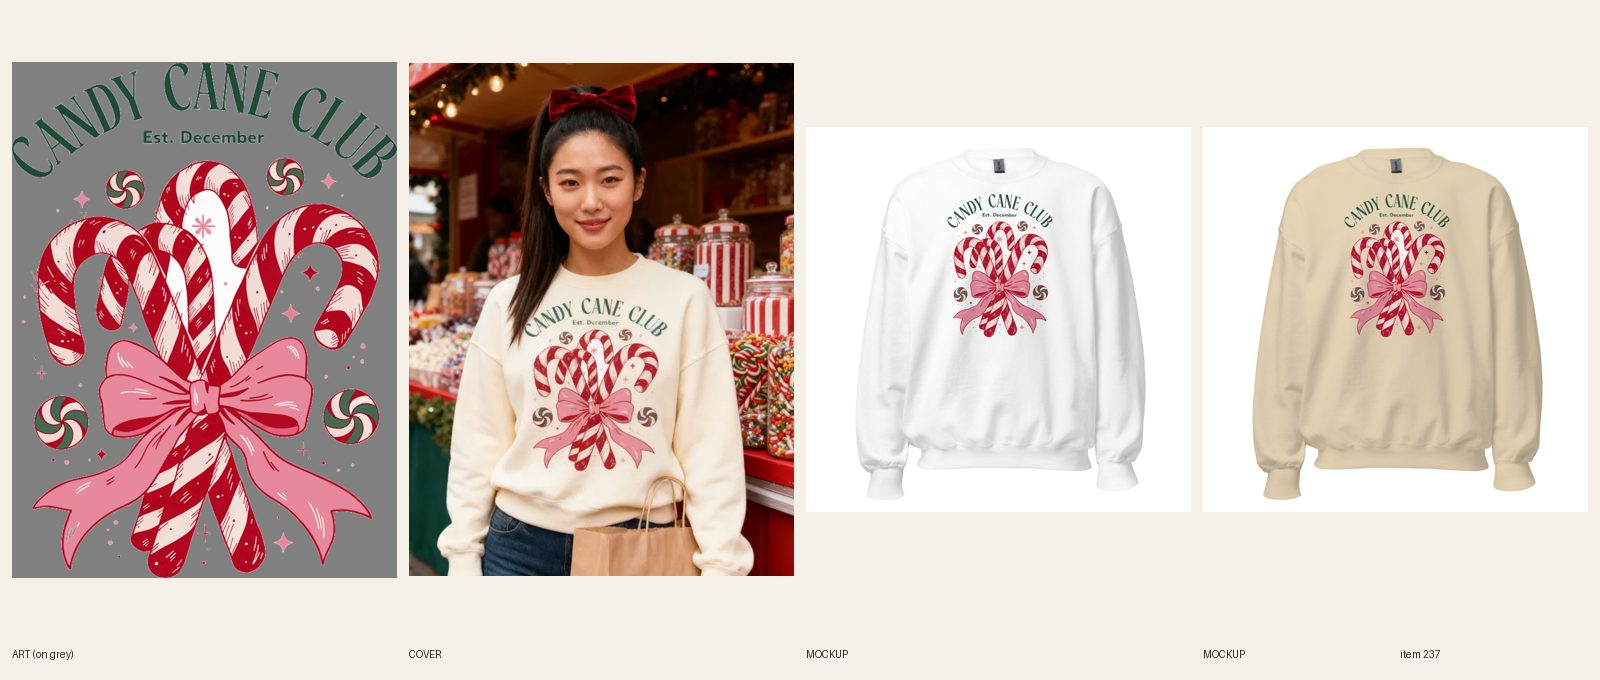
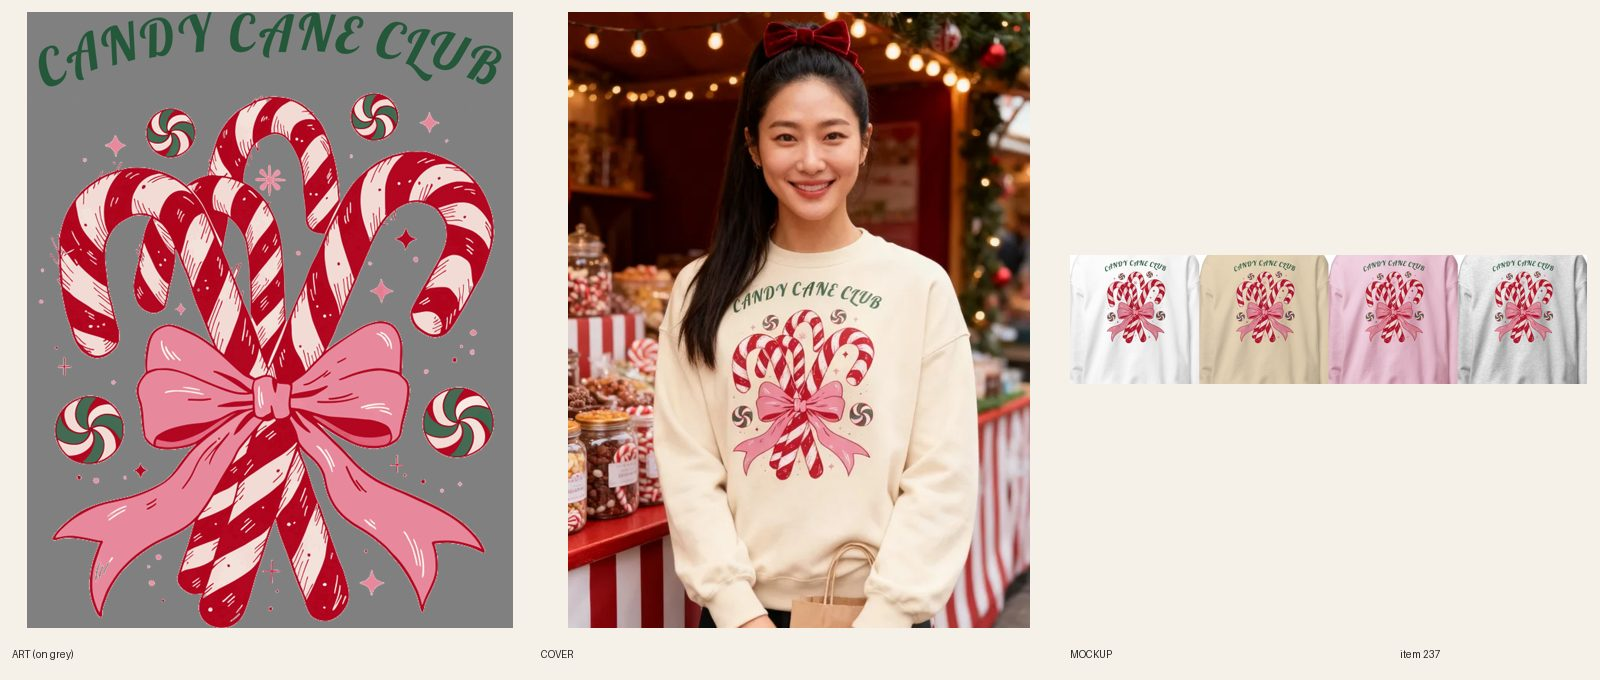
[A] 237 candy cane club crewneck redo built (resync running)

diff --git a/src/data/covers.ts b/src/data/covers.ts
@@ -229,7 +229,7 @@ export const covers: Record<string, { src: string; alt: string }> = {
   'unisex-horror-night-shift-oversized-hoodie': { src: '/covers/unisex-horror-night-shift-oversized-hoodie.webp', alt: 'Man and woman in matching black Night Shift oversized hoodies outside a neon-lit small-town movie theater at night' },
     'womens-christmas-christmas-nurse-crewneck-sweatshirt': { src: '/covers/womens-christmas-christmas-nurse-crewneck-sweatshirt.webp', alt: 'Woman in her early 30s with braids in a high bun and gold studs in a light blue Nice List Nurse Christmas crewneck sweatshirt in a hospital break room with paper snowflakes and a small tree' },
   'womens-christmas-merry-woofmas-crewneck-sweatshirt': { src: '/covers/womens-christmas-merry-woofmas-crewneck-sweatshirt.webp', alt: 'Woman in her late 30s with shoulder-length dark hair and a side part in a cream Merry Woofmas crewneck sweatshirt beside a lit Christmas tree with a golden doodle at her feet' },
-  'womens-christmas-candy-cane-club-crewneck-sweatshirt': { src: '/covers/womens-christmas-candy-cane-club-crewneck-sweatshirt.webp', alt: 'Woman in her early 30s with a long high ponytail and a red velvet bow in a cream Candy Cane Club crewneck sweatshirt at a Christmas market candy stall, shopping bag at her hip' },
+    'womens-christmas-candy-cane-club-crewneck-sweatshirt': { src: '/covers/womens-christmas-candy-cane-club-crewneck-sweatshirt.webp', alt: 'Woman in her early 30s with a long high ponytail and a red velvet bow in a cream Candy Cane Club Christmas crewneck sweatshirt at a Christmas market candy stall' },
   'womens-cropped-ghost-club-cropped-hoodie': { src: '/covers/womens-cropped-ghost-club-cropped-hoodie.webp', alt: 'Woman in a black Ghost Club cropped hoodie in a campus coffee shop with fall leaves outside the window' },
   'womens-christmas-oh-deer-hoodie': { src: '/covers/womens-christmas-oh-deer-hoodie.webp', alt: 'Woman in her mid 40s with a chin-length auburn bob and freckles in a sand Oh Deer reindeer hoodie with the hood visible on a snowy Christmas tree farm at golden hour' },
   'mens-gym-beach-body-pending-hoodie': { src: '/covers/mens-gym-beach-body-pending-hoodie.webp', alt: 'Man in a navy Beach Body Pending hoodie at a winter outdoor muscle-beach gym with palm trees and an empty bench' },

diff --git a/docs/pipeline/237-christmas-candy-cane-club-crewneck.md b/docs/pipeline/237-christmas-candy-cane-club-crewneck.md
@@ -1,4 +1,4 @@
-status: REDO
+status: BUILDING [A] 2026-10-17 21:20 UTC
 lane: A
 type: twin
 id: 237
@@ -24,3 +24,4 @@ handle: womens-christmas-candy-cane-club-crewneck-sweatshirt
   1. R6.2 / R3.7.6: "Est. December" is a typeset bold book serif (dates count) and too small to read on the cover. Erase it in print-prep; the art reads without it.
   2. R3.7.6: CANDY CANE CLUB reads as a clean display serif (identical letters, even spacing). Re-letter it by hand with one lettering-only Recraft generation composed in print-prep (the #234 method), same arch and width.
   3. R5.3.8: the white blob at the top of the center cane is pure white, not planned cream; knock it out or tint it cream. Then re-link, new mockups and one new cover (R6.7). The live tee keeps its art (R3.9).
+- 2026-10-17 21:20 UTC builder [A] REDO 237: (1) erased 'Est. December' and the old CANDY CANE CLUB lettering component by component (no new art; canes, bow, peppermints untouched). (2) Re-lettered CANDY CANE CLUB in Lobster script, deep green #25573a, arched (letters rotated along a circle), about 3400 px wide. (3) Knocked out the two enclosed pure-white gaps between the canes (including the blob at the top of the centre cane, 296k px); no free pure white left. New file 3570x4521 (Printful 1088453324), FW 1650 TOP 75 (about 14 in tall). Mockups checked on White, Sand, Light Pink, Ash. New cover (brief's reg 411 person, Sand crewneck, Christmas sweets stall, 1 attempt). Copy: art paragraph + SEO meta no longer mention Est. December; FAQ 5 x 40-60 words incl. Dec 8. NOTE: Printful sync product is 482321113 (the log line of 2026-10-16 named 482320956, which is not this item's). Resync 24 variants running (FORCE): REVIEW at 24/24. fal ~$0.04.

diff --git a/docs/model-registry.md b/docs/model-registry.md
@@ -588,3 +588,4 @@ Rows 11–43 were re-pointed on 2026-10-08 when the briefs were rewritten from d
 | 804 | Native Hawaiian woman, early 30s, long dark hair in a single braid, small gold hoops, tan cowboy hat | USED 2026-10-17 — #217 Ho Ho Howdy hoodie cover redo (seedream, 2 attempts: try 1 hair covered the first H; try 2 kept, braid just touches the H edge, Santa's face soft) |
 | 805 | Colombian woman, late 30s, shoulder-length wavy chestnut hair, small pearl earrings | USED 2026-10-17 — #219 O Holy Night crewneck cover redo (seedream, 1 attempt) |
 | 806 | Nigerian-American woman, early 30s, braids in a high bun, small gold studs | USED 2026-10-17 — #221 Christmas Nurse crewneck cover redo (seedream, 1 attempt) |
+| 411 | (same person, reused for the redo as the brief specifies) | USED again 2026-10-17 — #237 Candy Cane Club crewneck cover redo (seedream, 1 attempt) |
